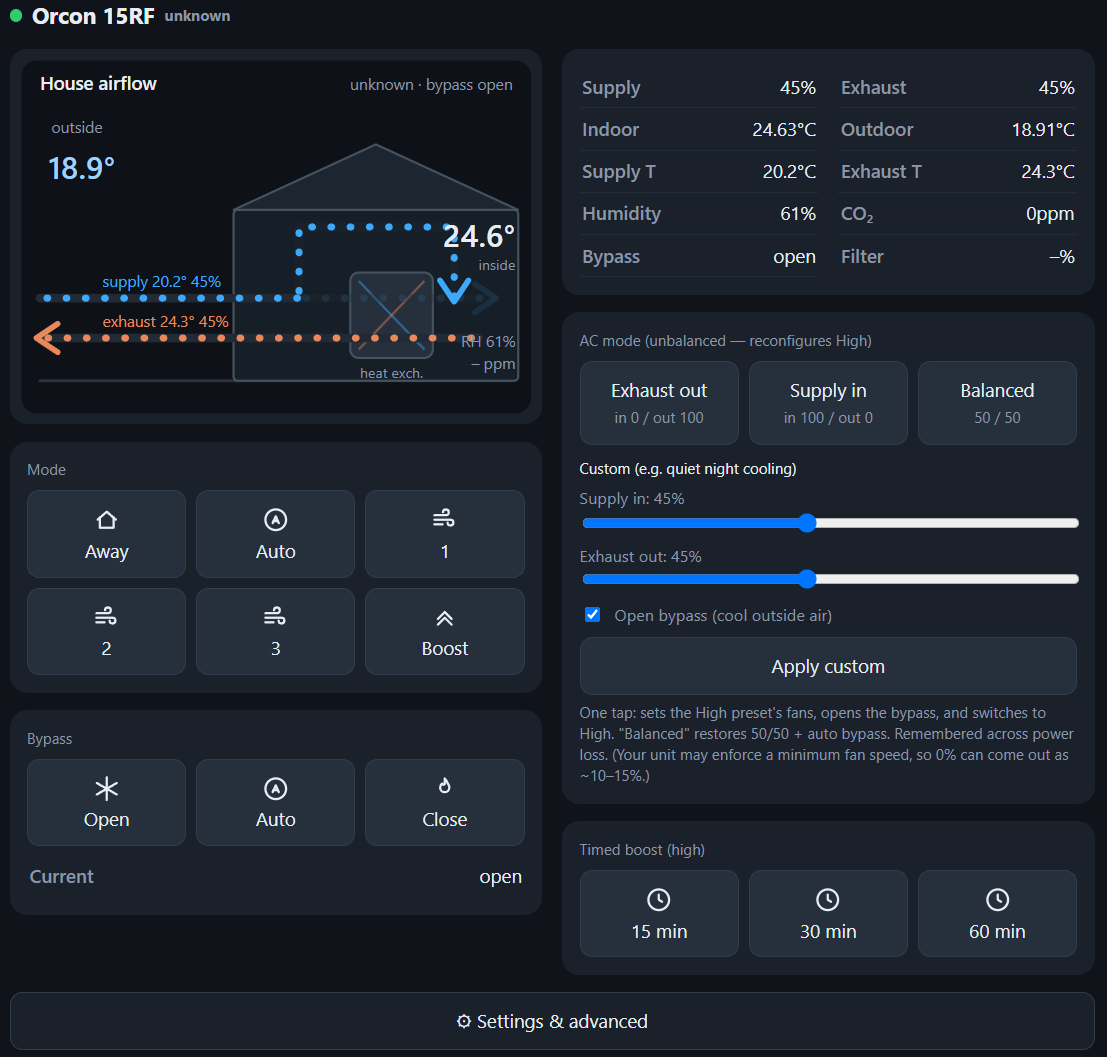
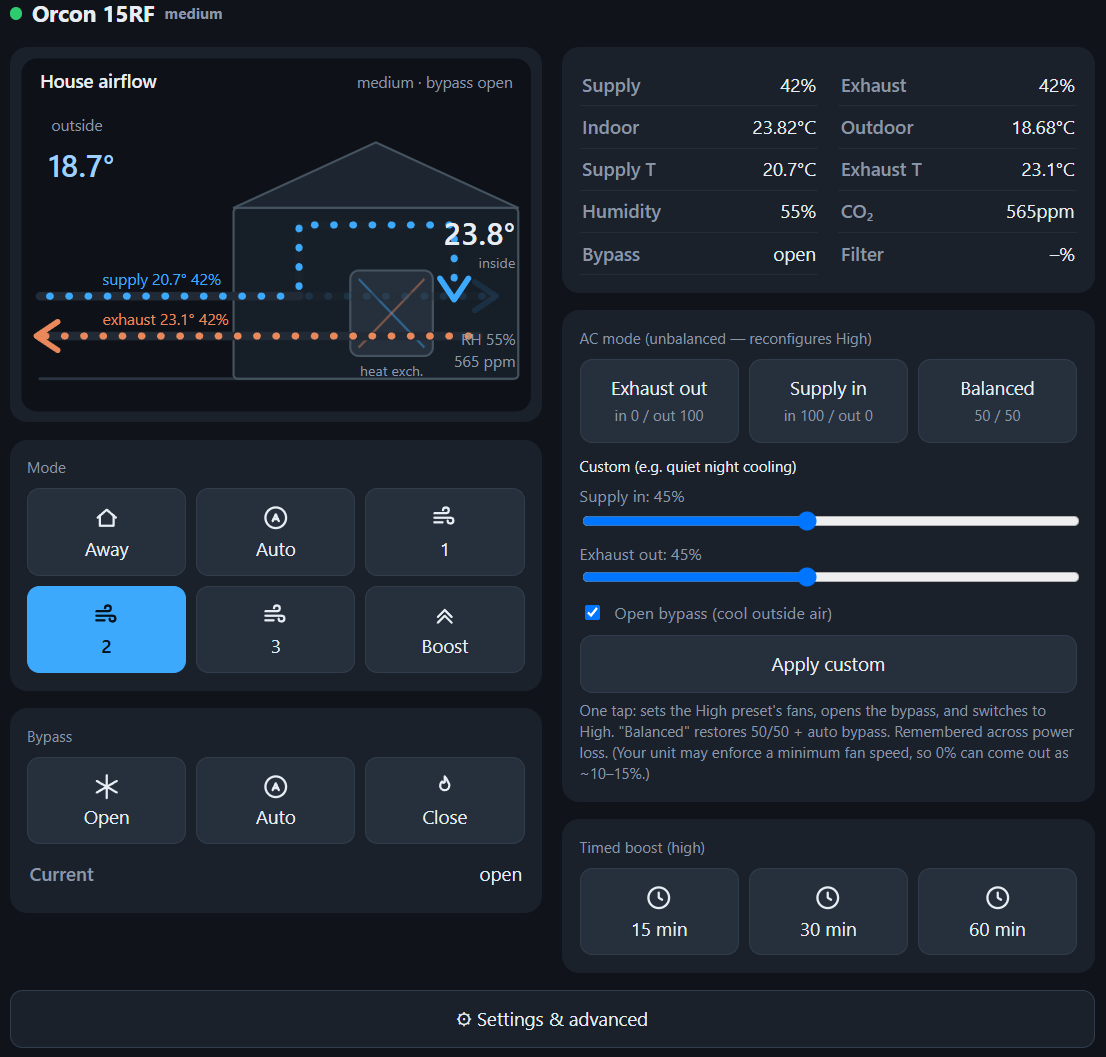
docs: tidy screenshots caption, placeholder for display shot

diff --git a/README.md b/README.md
@@ -39,10 +39,7 @@ path, not the motor).
 
 | Web control page | Airflow widget | Touch display *(WIP)* |
 |:---:|:---:|:---:|
-| ![Web control UI](docs/img/web-control.png) | ![Airflow widget](docs/img/airflow-widget.png) | ![4848S040 touch UI](docs/img/display-4848.png) |
-
-<sub>Drop PNGs in `docs/img/` with these filenames to populate the table. The
-touch-display shot is a work in progress — see below.</sub>
+| ![Web control UI](docs/img/web-control.png) | ![Airflow widget](docs/img/airflow-widget.png) | _📷 coming soon_ |
 
 ## Radio options (important)
 